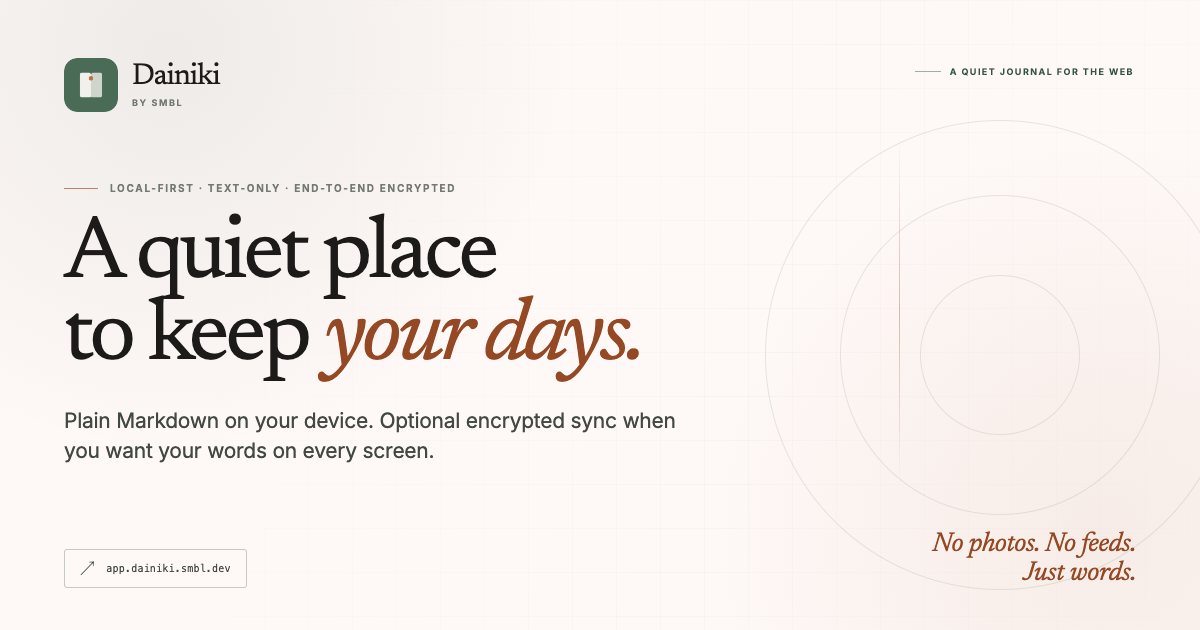
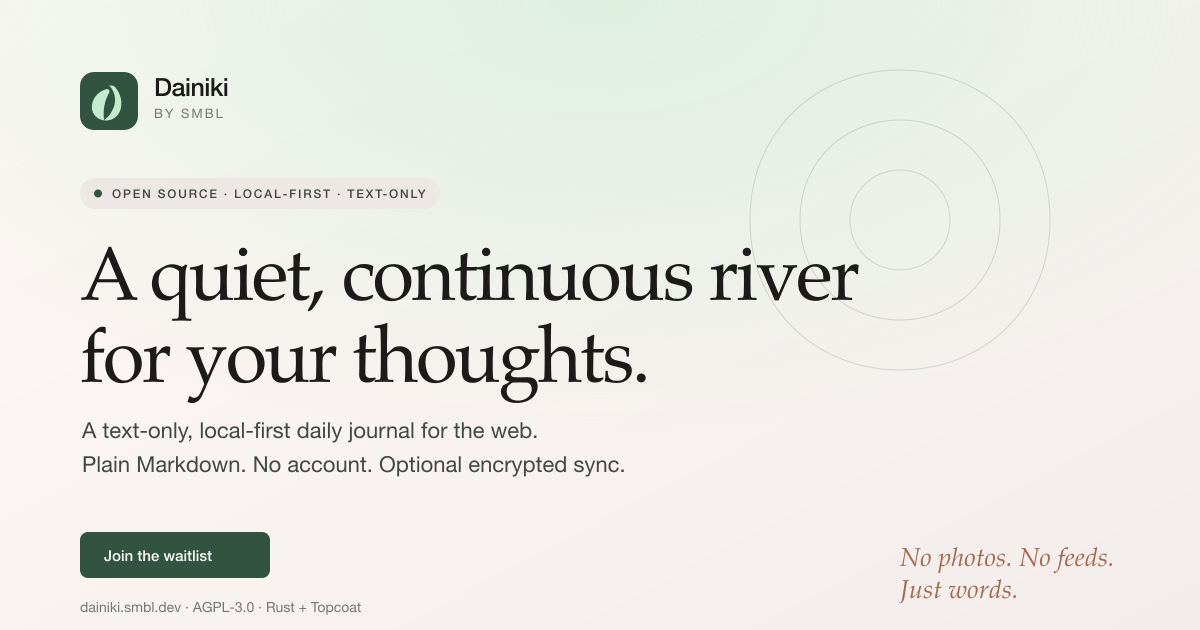
use AGPL-3.0 on landing page

diff --git a/landing/src/landing/pricing.rs b/landing/src/landing/pricing.rs
@@ -190,7 +190,7 @@ pub async fn pricing() -> Result<impl View> {
                             <span
                                 class="font-ui-caption text-ui-caption px-2 py-0.5 rounded bg-surface-container text-on-surface-variant"
                             >
-                                "MIT"
+                                "AGPL-3.0"
                             </span>
                         </div>
                         <p
@@ -242,7 +242,7 @@ pub async fn pricing() -> Result<impl View> {
                             <p
                                 class="mt-3 text-center font-ui-caption text-ui-caption text-on-surface-variant/70"
                             >
-                                "MIT licensed. Setup notes live in the repository."
+                                "AGPL-3.0 licensed. Setup notes live in the repository."
                             </p>
                         </div>
                     </div>

diff --git a/landing/src/landing/faq.rs b/landing/src/landing/faq.rs
@@ -182,7 +182,7 @@ pub async fn faq() -> Result<impl View> {
                     <p
                         class="font-journal-body text-journal-body text-on-surface-variant leading-relaxed mt-3 pr-8"
                     >
-                        "Yes. Dainiki is MIT licensed. The self-hosted build includes auth, sync, and storage configuration, with SMTP or Resend for email and Cloudflare R2 or a local disk for storage."
+                        "Yes. Dainiki is AGPL-3.0 licensed. The self-hosted build includes auth, sync, and storage configuration, with SMTP or Resend for email and Cloudflare R2 or a local disk for storage."
                     </p>
                 </details>
             </div>

diff --git a/landing/src/landing/footer.rs b/landing/src/landing/footer.rs
@@ -20,7 +20,7 @@ pub async fn footer() -> Result<impl View> {
                         <span
                             class="font-ui-caption text-ui-caption text-on-surface-variant"
                         >
-                            "© 2026 SMBL Foundation. Open source under the MIT License."
+                            "© 2026 SMBL Foundation. Open source under the AGPL-3.0 License."
                         </span>
                     </div>
                     <p class="font-ui-caption text-ui-caption text-on-surface-variant">
